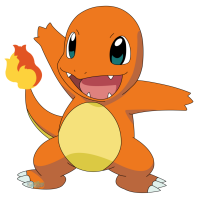
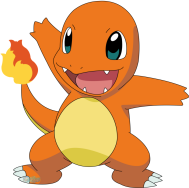
Went to a centered theme across all elements on the page; changed background; added github link to footer; added rudimentary border to grouped choices

Changed region(s): [[0.0, 0.0, 1.0, 1.0]]

diff --git a/index.css b/index.css
@@ -10,10 +10,7 @@ p{
     color: black;
 }
 .pokemon-logo{
-    height: auto;
-    width: auto;
-    max-height: 100%;
-    max-width: 500px;
+    text-align: center;
 }
 .footer{
     position: fixed;
@@ -22,7 +19,7 @@ p{
     width: 100%;
     background-color: white;
     color: black;
-    height: 8vh;
+    height: 6vh;
     text-overflow: hidden;
     display: flex;
     align-items: center;
@@ -40,21 +37,26 @@ p{
     width: 250px;
     padding-left: 10vw;
 }
+.pokemon-choices{
+    align-items: center;
+    display: flex;
+    flex-wrap: wrap;
+    justify-content: center;
+    margin: auto;
+    min-height: 300px;
+}
 .charmander{
+    padding: 10px;
     background-color: white;
-    border-radius: 50%;
-    height: 200px;
-    width: 200px;
+    border-radius: 180px;
 }
 .bulbasaur{
+    padding: 10px;
     background-color: white;
-    border-radius: 50%;
-    height: 200px;
-    width: 200px;
+    border-radius: 180px;
 }
 .squirtle{
+    padding: 10px;
     background-color: white;
-    border-radius: 50%;
-    height: 200px;
-    width: 200px;
+    border-radius: 180px;
 }

diff --git a/index.html b/index.html
@@ -11,21 +11,19 @@
 </head>
 
 <body>
-    <head>
-        <img src="/assets/pokemon-logo.png" alt="The Pokémon logo" class="pokemon-logo">
-    </head>
+    <header>
+        <div class="pokemon-logo">
+            <img src="/assets/pokemon-logo.png" alt="The Pokémon logo" >
+        </div>
+    </header>
     
     <div class="bg"></div>
 </body>
 
-<div class="charmander">
-    <img src="/assets/charmander.png">
-</div>
-<div class="bulbasaur">
-    <img src="/assets/bulbasaur.png">
-</div>
-<div class="squirtle">
-    <img src="/assets/squirtle.png">
+<div class="pokemon-choices">
+        <img src="/assets/charmander.png" class="charmander">
+        <img src="/assets/bulbasaur.png" class="bulbasaur">
+        <img src="/assets/squirtle.png" class="squirtle">
 </div>
 
 <div class="footer">
